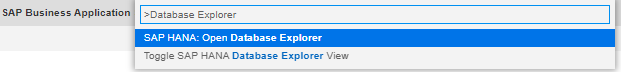
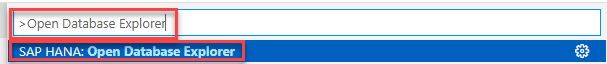
updated screenshots of new BAS

diff --git a/exercises/Exercise_5_SAP_BAS/README.md b/exercises/Exercise_5_SAP_BAS/README.md
@@ -16,13 +16,9 @@ We will now create a calculation view on top of the replicated calculation view 
 Again we will take a short-cut and grant the privileges to all database projects in BAS. Typically, a more fine granular authorization is used. See e.g., [FAQs](https://blogs.sap.com/2019/11/13/faq-modeling-in-web-ide/).
 
 
-- Open Database Explorer from Business Application Studio:
+- open Database Explorer from Business Application Studio:
 
-  - Choose "Find Command" of menu "View"
-
-    ![find command](./images/findCommand.png)
-
-  - an entry field pops up, enter "Database Explorer" and choose "SAP HANA: Open Database Explorer"
+  - in the entry field that you find in the center on the top enter ">Open Database Explorer" and choose "SAP HANA: Open Database Explorer"
 
     ![open database explorer](./images/openDatabaseExplorer.png)
 
@@ -54,9 +50,14 @@ We will work in a project that we create from a template:
 
 - Switch back to your Business Application Studio tab
 
-- In the Welcome view, select "Start from template" (if the Welcome screen is not visible: open it by using menu "Help" and then select "Welcome"):
+- In the Get Started view, select "Start from template":
 
   ![start from template](./images/startFromTemplate.png)
+
+
+     > If the Get Started screen is not visible: open it by clicking on the Hamburger menu on the top left, choosing "Help" and then "Get Started"
+     >
+     >![get started](./images/openGetStarted.png)
 
   - Choose SAP HANA Database Project and press "Start":
 
